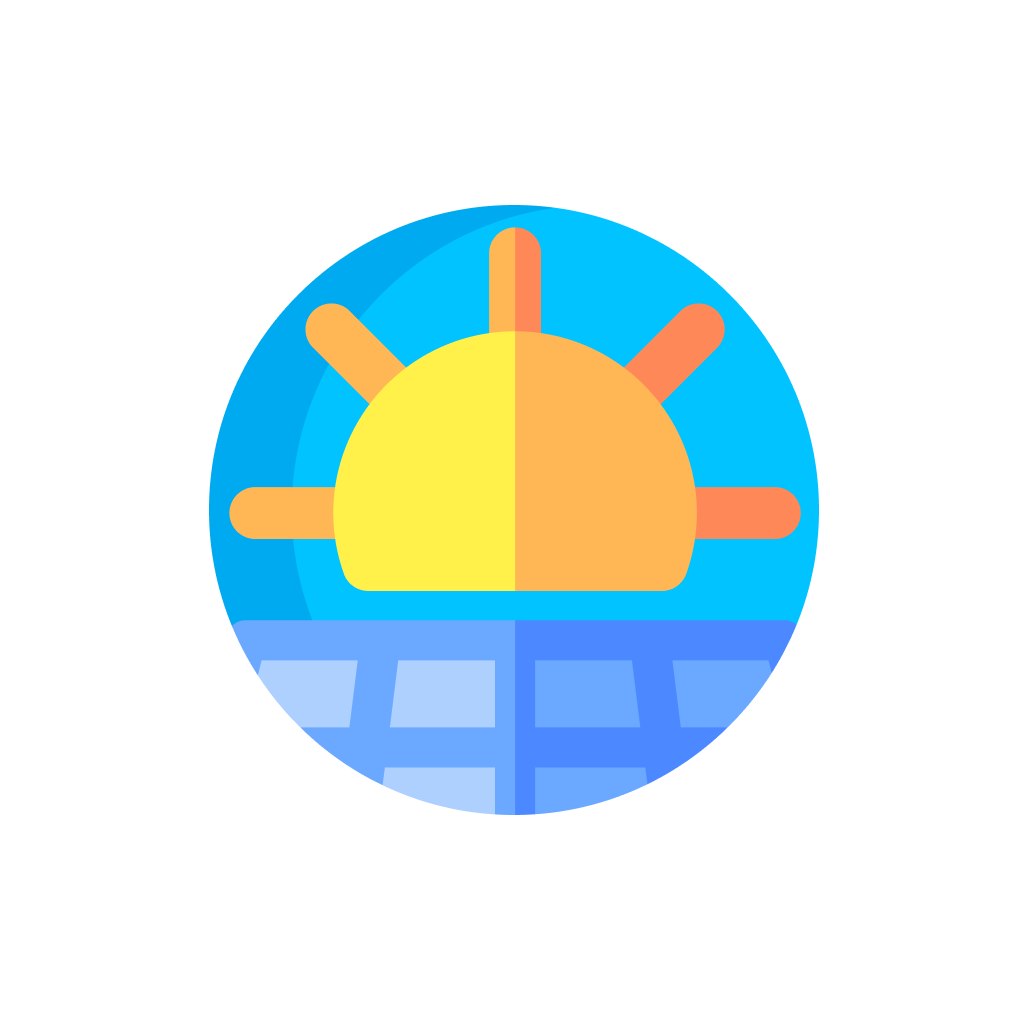
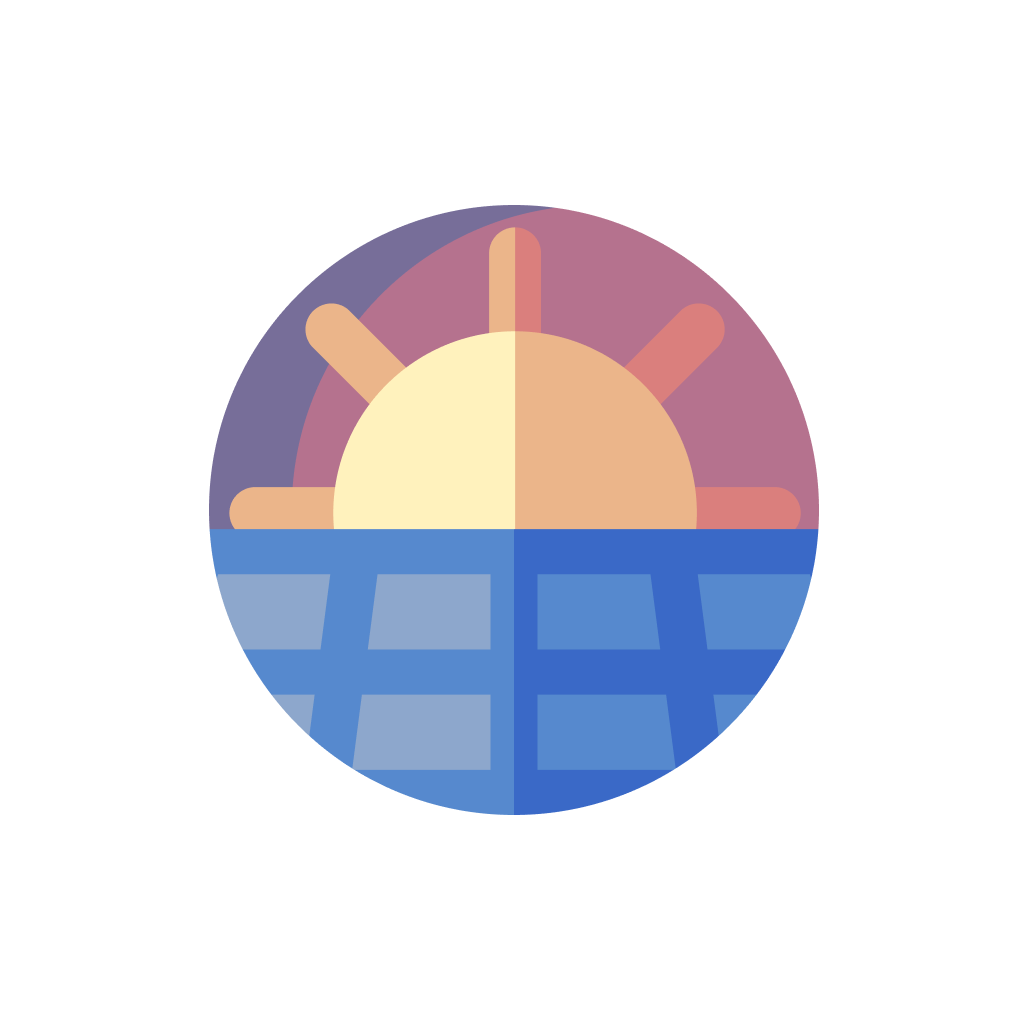
Improve styling
branch:

Changed region(s): [[0.1875, 0.1875, 0.8125, 0.8125]]

diff --git a/mobile/MatahariTerbit/App.tsx b/mobile/MatahariTerbit/App.tsx
@@ -1,9 +1,22 @@
 import React from 'react'
-import { Center, Heading, NativeBaseProvider, View, Text } from 'native-base'
+import {
+  Box,
+  Heading,
+  NativeBaseProvider,
+  View,
+  Icon,
+  HStack,
+  IconButton,
+  VStack
+} from 'native-base'
 import WebView from 'react-native-webview'
 import { ImageBackground, NativeModules, Platform } from 'react-native'
 import * as Sentry from 'sentry-expo'
 import logo from './assets/dithered-image2.png'
+import Sunrise from './assets/logo-sunrise.svg'
+import { G, Path } from 'react-native-svg'
+import SunriseLogo from './components/SunriseLogo'
+import { MaterialIcons } from '@expo/vector-icons'
 
 const deviceLanguage =
     Platform.OS === 'ios'
@@ -21,21 +34,33 @@ Sentry.init({
 export default function App() {
 
   const langOnly = deviceLanguage.split('_')[0]
-  // const baseUrl = 'https://matahariterbit.web.app'
-  const baseUrl = 'http://192.168.1.4:8080'
+  const baseUrl = 'https://matahariterbit--pr79-feature-styling-bran-yp4txjeu.web.app'
+  // const baseUrl = 'http://192.168.1.4:8080'
   const uri = `${baseUrl}?lng=${langOnly}&priorityEnabled=0&mobile=1`
   console.log('uri', uri)
-  const image = { uri: 'https://reactjs.org/logo-og.png' }
+  const backGroundColor = '#0c4ac7'
   return (
     Platform.OS === 'web' ? <iframe src={baseUrl} height={896} width={414}/> :
-      <NativeBaseProvider>
-        <View style={{ flex: 1 }} backgroundColor="#1890ff">
+      <NativeBaseProvider >
+        <View style={{ flex: 1 }} backgroundColor={backGroundColor}>
           <ImageBackground resizeMode='repeat' source={logo} style={{ width: '100%', height: '100%' }} width={160} >
-            <Heading>
-              {' '}
+            <Box safeAreaTop bg={backGroundColor} />
+            <HStack bg={backGroundColor} px="1" py="3" justifyContent="space-between" alignItems="center" w="100%">
+              <HStack alignItems="center">
+                <SunriseLogo width={50} height={50} style={{ marginLeft: 5 }} />
+                <VStack style={{ marginLeft: 10 }}>
 
-            </Heading>
-            <Heading>{' '}</Heading>
+                  <Heading size="lg" color='white' bold>Solar Calculator</Heading>
+                  <Heading size="xs" color='gray.300'>How many panels do I need?</Heading>
+                </VStack>
+              </HStack>
+              <HStack>
+                <IconButton icon={<Icon as={MaterialIcons} name="info" size="sm" color="white" />} />
+                <IconButton icon={<Icon as={MaterialIcons} name="settings" size="sm" color="white" />} />
+              </HStack>
+            </HStack>
+              
+
             <WebView originWhitelist={['https://*', 'http://*']}
               source={{
                 uri: uri,
@@ -44,7 +69,7 @@ export default function App() {
               geolocationEnabled
               scrollEnabled={true}
               bounces={false}
-              style={{ flex: 1, height: 2, backgroundColor: '#1890ff'  }}
+              style={{ flex: 1, height: 2, backgroundColor: '#5689CE'  }}
             />
           </ImageBackground>
         </View>

diff --git a/mobile/MatahariTerbit/components/SunriseLogo.tsx b/mobile/MatahariTerbit/components/SunriseLogo.tsx
@@ -1,0 +1,67 @@
+import * as React from 'react'
+import Svg, { SvgProps, Path } from 'react-native-svg'
+
+const SunriseLogo = (props: SvgProps) => (
+  <Svg
+    width={props.width}
+    height={props.height}
+    fill="none"
+    {...props}
+    viewBox="0 0 32 32"
+  >
+    <Path
+      d="M16 32C7.178 32 0 24.823 0 16 0 7.178 7.178 0 16 0s16 7.178 16 16c0 8.823-7.178 16-16 16Z"
+      fill="#B5728E"
+    />
+    <Path
+      d="M4.343 16c0-8.086 6.029-14.79 13.828-15.852A16.01 16.01 0 0 0 16 0C7.178 0 0 7.177 0 16c0 8.822 7.178 16 16 16 .736 0 1.46-.052 2.171-.148C10.372 30.789 4.343 24.086 4.343 16Z"
+      fill="#776E99"
+    />
+    <Path
+      d="M29.68 17.523h-5.45a1.362 1.362 0 0 1 0-2.725h5.45a1.362 1.362 0 0 1 0 2.725Z"
+      fill="#DA7F7D"
+    />
+    <Path
+      d="M7.882 17.523h-5.45a1.362 1.362 0 0 1 0-2.725h5.45a1.362 1.362 0 0 1 0 2.725ZM16.056 9.349c-.752 0-1.362-.61-1.362-1.363v-5.45a1.362 1.362 0 0 1 2.724 0v5.45c0 .753-.61 1.363-1.362 1.363Z"
+      fill="#EBB58A"
+    />
+    <Path
+      d="M16.056 9.349c.752 0 1.362-.61 1.362-1.363v-5.45c0-.752-.61-1.362-1.362-1.362V9.35ZM20.873 11.344a1.362 1.362 0 0 1 0-1.927l3.853-3.853a1.362 1.362 0 1 1 1.927 1.926l-3.854 3.854a1.362 1.362 0 0 1-1.926 0Z"
+      fill="#DA7F7D"
+    />
+    <Path
+      d="M9.313 11.344 5.459 7.49a1.362 1.362 0 1 1 1.927-1.926l3.853 3.853a1.362 1.362 0 1 1-1.926 1.927Z"
+      fill="#EBB58A"
+    />
+    <Path
+      d="M23.755 20.248H8.357a1.363 1.363 0 0 1-1.285-.908 9.509 9.509 0 0 1-.553-3.18c0-5.258 4.278-9.536 9.537-9.536 5.258 0 9.537 4.278 9.537 9.537a9.51 9.51 0 0 1-.553 3.179 1.362 1.362 0 0 1-1.285.908Z"
+      fill="#FFF2BD"
+    />
+    <Path
+      d="M23.755 20.248c.577 0 1.092-.364 1.285-.908a9.512 9.512 0 0 0 .553-3.18c0-5.258-4.279-9.536-9.537-9.536v13.624h7.7Z"
+      fill="#EBB58A"
+    />
+    <Path
+      d="M0 18c.987 7.882 7.73 14 15.876 14 8.145 0 14.888-6.118 15.875-14H0Z"
+      fill="#8DA8CC"
+    />
+    <Path
+      d="M31.876 18C30.888 25.882 24.145 32 16 32V18h15.876Z"
+      fill="#5689CE"
+    />
+    <Path
+      fillRule="evenodd"
+      clipRule="evenodd"
+      d="M7.6 29.632A15.904 15.904 0 0 0 15.97 32c3.065 0 5.932-.867 8.369-2.368h-7.14v-3.948h6.748l.504 3.878a16.098 16.098 0 0 0 2.258-1.712l-.282-2.166h2.27a16.03 16.03 0 0 0 1.5-2.368H26.12l-.513-3.948h5.89l.062.24c.196-.846.324-1.717.38-2.608H0c.055.89.184 1.762.38 2.608l.062-.24h5.89l-.514 3.948H1.742c.43.835.933 1.627 1.498 2.368h2.27l-.28 2.166a16.1 16.1 0 0 0 2.257 1.712l.504-3.878h6.748v3.948h-7.14Zm7.139-6.316v-3.948H8.81l-.513 3.948h6.44Zm2.46-3.948v3.948h6.44l-.512-3.948H17.2Z"
+      fill="#5689CE"
+    />
+    <Path
+      fillRule="evenodd"
+      clipRule="evenodd"
+      d="M16 32h.006a15.904 15.904 0 0 0 8.364-2.368h-7.14v-3.948h6.748l.504 3.878a16.1 16.1 0 0 0 2.258-1.712l-.282-2.166h2.27a16.03 16.03 0 0 0 1.5-2.368H26.15l-.513-3.948h5.89l.062.24c.195-.846.324-1.717.38-2.608H16v15Zm7.158-12.632H17.23v3.948h6.44l-.512-3.948Z"
+      fill="#3A69C7"
+    />
+  </Svg>
+)
+
+export default SunriseLogo

diff --git a/src/index.css b/src/index.css
@@ -1,11 +1,13 @@
 body {
     font-family: sans-serif;
-    background-color: #ffffcc;
+    background-color: #FFF2BD;
+    background-image: linear-gradient(to top, #FFF2BD 1%, #F4D797 30%, #EBB58A 40%, #DA7F7D 75%, #B5728E 100% );
+    background-repeat: no-repeat;
 }
 
 .container {
-    background-image: url("assets/images/dithered-image2.png");
-    background-size: 120px;
+    /*background-image: url("assets/images/dithered-image2.png");*/
+    /*background-size: 120px;*/
     display: flex;
     flex-direction: column;
     align-items: center;
@@ -48,6 +50,10 @@ body {
     border-top-color: black;
     border-top-style: solid;
     border-top-width: 1px;
+    font-weight: bold;
+}
+
+.emphasis {
     font-weight: bold;
 }
 
@@ -179,4 +185,8 @@ SPAN.anticon.anticon-info-circle {
 }
 .ant-steps-item-icon .ant-steps-icon {
     color: #5689CE
+}
+
+.ant-drawer-header {
+    padding-left: 12px;
 }

diff --git a/src/components/ResultTable.tsx b/src/components/ResultTable.tsx
@@ -27,7 +27,7 @@ export const ResultTable: React.FunctionComponent<ResultTableProps> = (props) =>
   return (
     <div className="ant-table">
       <Row gutter={12} className="panelPane">
-        <Col xs={10} sm={8} >{t('resultTable.numberOfPanels')} {panels.length} <InfoCircleOutlined onClick={() => onOpenDocumentation(Documentation.NumberOfPanels, t('resultTable.recommendedPanels'))}/></Col>
+        <Col xs={10} sm={8} className='emphasis'>{t('resultTable.numberOfPanels')} {panels.length} <InfoCircleOutlined onClick={() => onOpenDocumentation(Documentation.NumberOfPanels, t('resultTable.recommendedPanels'))}/></Col>
         <Col xs={14} sm={16} className="panelContainer"><div style={{ float: 'right' }}>{panels.map(renderPanel)}</div></Col>
       </Row>
       <Row gutter={12} justify="end">

diff --git a/src/components/FinancialResultBreakdown.tsx b/src/components/FinancialResultBreakdown.tsx
@@ -49,10 +49,10 @@ export const FinancialResultBreakdown: React.FunctionComponent<ResultTableProps>
       <Col span={9}>{formatRupiah(results.yearlyProfit)}</Col>
     </Row>
     <Row gutter={12}>
-      <Col span={11}>{t('resultTable.breakEven')}&nbsp;
+      <Col span={11} className='emphasis'>{t('resultTable.breakEven')}&nbsp;
         <InfoCircleOutlined onClick={() => onOpenDocumentation(Documentation.RoiExplanation,t('resultTable.breakEven'))}/>
       </Col>
-      <Col span={13}>{t('resultTable.breakEvenExplanation', { breakEven })}</Col>
+      <Col span={13} className='emphasis'>{t('resultTable.breakEvenExplanation', { breakEven })}</Col>
     </Row>
     <Row gutter={12}>
       <Col span={24} />

diff --git a/src/App.tsx b/src/App.tsx
@@ -15,7 +15,6 @@ import { InfoPane } from './components/InfoPane'
 import { StringParam, useQueryParam } from 'use-query-params'
 import { BooleanParam } from 'serialize-query-params/lib/params'
 import { FinancialResultBreakdown } from './components/FinancialResultBreakdown'
-import bgImage from './assets/images/background.svg'
 
 export const App: React.FunctionComponent = () => {
   const { t, i18n } = useTranslation()
@@ -65,7 +64,6 @@ export const App: React.FunctionComponent = () => {
     setTimeout(moveTo(e.currentTarget), 200)
   }
 
-  console.log('BGImage ', bgImage)
   return (
     <div className="container">
       {!mobile &&

diff --git a/src/index.tsx b/src/index.tsx
@@ -5,8 +5,9 @@ import { App } from './App'
 import { QueryParamProvider } from 'use-query-params'
 import './i18n'
 import './index.css'
+import { Spin } from 'antd'
 
-ReactDOM.render(<Suspense fallback="loading..." >
+ReactDOM.render(<Suspense fallback={<div className="container"><Spin size='large' /></div>} >
   <QueryParamProvider >
     <App />
   </QueryParamProvider>

diff --git a/mobile/MatahariTerbit/types/static.d.ts b/mobile/MatahariTerbit/types/static.d.ts
@@ -1,0 +1,7 @@
+declare module '*.svg' {
+  const ref: React.ForwardRefRenderFunction<SVGSVGElement, React.SVGAttributes<SVGSVGElement>>
+  export default ref
+}
+
+declare module '*.webp'
+declare module '*.png'
